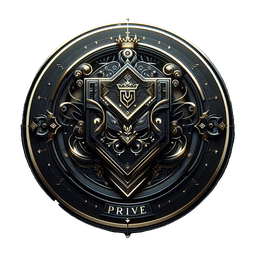
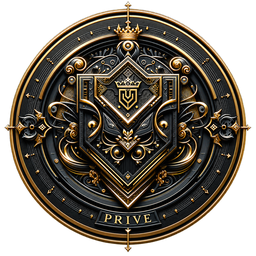
Rebuild emblem assets and unify homepage card system
Emblem:
- images/emblem-512.webp was a 2.5 MB PNG carrying a .webp extension.
  Re-encoded the new artwork as a real 512x512 WebP (100 KB), so the
  eager fetchpriority=high hero image on every page is 25x lighter.
- Restored images/Emblem.png from the same new artwork. It was deleted
  from the working tree while ~100 og:image, JSON-LD logo and Gmail
  mailer references still pointed at it. Kept as PNG because Outlook
  and WhatsApp do not render WebP.
- Dashboard maintenance lander now defaults to images/emblem-512.webp,
  and the dashboard's own chrome emblem is on the new artwork.

Homepage cards, matched to the recruitment page card language:
- One inset now drives card padding and the panel head, so headings and
  card copy share a left edge.
- Cards get recruitment's 260px height, gradient fill and inset-ring
  hover; services join the same hairline grid.
- Dropped the 270px/420px copy caps that made cards feel confining.
- Card content is top-aligned after a fixed eyebrow gap, so titles share
  a baseline regardless of copy length.
- Phones size cards to their copy instead of leaving a tall empty tail.

Mobile fixes:
- Wallpaper download/preview icons were gold-on-gold and invisible; the
  broad `main a` content-link rule now skips icon buttons.
- Contact council copy button stays beside "Open Torn" instead of
  stretching to a full-width icon-only bar under 520px.
- API launcher, back-to-top and recruitment banner outranked the nav
[…]

diff --git a/assets/priority-pages.css b/assets/priority-pages.css
@@ -608,3 +608,267 @@ body.faq-page .faq-closing {
     transition: none;
   }
 }
+
+/* ============================================================
+   Homepage cards — aligned to the recruitment card language
+   The home grids previously used shallower cards with capped
+   copy widths, which read as cramped next to recruitment.html.
+   These rules load last so they settle the shared card shell:
+   one inset, one fill, one hover, copy that fills the card.
+   ============================================================ */
+
+body.home-page {
+  /* One inset drives card padding AND the panel head, so headings
+     and card copy share a left edge. Matches .recruit-benefit-card. */
+  --home-card-inset: clamp(1.5rem, 2.8vw, 1.95rem);
+  --home-card-min: 260px;
+  --home-card-fill:
+    linear-gradient(145deg, rgba(255, 255, 255, 0.035), rgba(255, 255, 255, 0.008)),
+    rgba(12, 14, 17, 0.92);
+  --home-card-fill-hover:
+    linear-gradient(145deg, rgba(var(--accent-rgb), 0.095), rgba(255, 255, 255, 0.012)),
+    rgba(13, 15, 18, 0.94);
+}
+
+body.home-page .home-panel > .home-panel-head {
+  padding-inline: var(--home-card-inset);
+}
+
+/* Shared card shell ------------------------------------------- */
+body.home-page :is(
+  .tenet-grid li,
+  .legacy-timeline li,
+  .service-card,
+  .benefit-grid li,
+  .snapshot-card
+) {
+  position: relative;
+  min-height: var(--home-card-min);
+  display: flex;
+  flex-direction: column;
+  align-items: stretch;
+  justify-content: flex-start;
+  gap: 0;
+  padding-block: var(--home-card-inset);
+  background: var(--home-card-fill);
+  transition:
+    background 0.24s ease,
+    box-shadow 0.24s ease,
+    border-color 0.24s ease;
+}
+
+body.home-page :is(
+  .tenet-grid li,
+  .legacy-timeline li,
+  .service-card,
+  .benefit-grid li,
+  .snapshot-card
+):is(:hover, :focus-within) {
+  z-index: 1;
+  transform: none;
+  background: var(--home-card-fill-hover);
+  box-shadow: inset 0 0 0 1px rgba(var(--accent-rgb), 0.25) !important;
+}
+
+/* Copy fills the card instead of being capped short ------------ */
+body.home-page :is(
+  .tenet-grid p,
+  .legacy-timeline p,
+  .service-card p,
+  .benefit-grid small,
+  .snapshot-card span
+) {
+  max-width: none;
+  margin-top: 0.55rem;
+  color: var(--home-muted);
+  font-size: 0.84rem;
+  line-height: 1.72;
+}
+
+/* Card titles ------------------------------------------------- */
+body.home-page :is(
+  .tenet-grid strong,
+  .legacy-timeline h3,
+  .service-card h3,
+  .benefit-grid strong,
+  .snapshot-card strong
+) {
+  display: block;
+  margin: 0;
+  color: var(--text-1);
+  font-family: "Poppins", Arial, Helvetica, sans-serif;
+  font-size: 0.98rem;
+  font-weight: 600;
+  line-height: 1.4;
+}
+
+/* Top row: the eyebrow/medallion sits away from the copy ------- */
+body.home-page .tenet-grid li::before,
+body.home-page .legacy-timeline time,
+body.home-page .service-card > .service-icon,
+body.home-page .benefit-grid > li > .benefit-icon,
+body.home-page .snapshot-card > i {
+  flex: 0 0 auto;
+  margin: 0 0 2.35rem;
+}
+
+/* Circular medallions, as on .recruit-benefit-card__top -------- */
+body.home-page :is(.service-icon, .benefit-icon),
+body.home-page .snapshot-card > i {
+  display: grid;
+  place-items: center;
+  width: 2.55rem;
+  height: 2.55rem;
+  border: 1px solid rgba(var(--accent-rgb), 0.3);
+  border-radius: 50%;
+  background: rgba(0, 0, 0, 0.14);
+  color: var(--accent-light);
+  font-size: 0.9rem;
+}
+
+/* Benefits and snapshots stack like the recruitment cards ------ */
+body.home-page .benefit-grid > li,
+body.home-page .snapshot-card {
+  display: flex;
+  align-items: stretch;
+}
+
+body.home-page .benefit-grid > li > div,
+body.home-page .snapshot-card > div,
+body.home-page .service-card > div {
+  min-width: 0;
+}
+
+body.home-page .tenet-grid li::before {
+  color: rgba(var(--accent-rgb), 0.52);
+  font-family: "Poppins", Arial, Helvetica, sans-serif;
+  font-size: 0.66rem;
+  font-weight: 700;
+  letter-spacing: 0.14em;
+}
+
+body.home-page .legacy-timeline time {
+  color: rgba(var(--accent-rgb), 0.52);
+  font-size: 0.66rem;
+  font-weight: 700;
+  letter-spacing: 0.14em;
+}
+
+/* The callout gets matching breathing room -------------------- */
+body.home-page .home-callout {
+  gap: 1.15rem;
+  padding-block: 1.35rem;
+}
+
+/* Services: same hairline grid + card shell as the others ------ */
+body.home-page .service-grid {
+  grid-template-columns: repeat(2, minmax(0, 1fr));
+  gap: 1px;
+  overflow: hidden;
+  border: 1px solid var(--home-line);
+  border-radius: 4px;
+  background: var(--home-line);
+}
+
+body.home-page .service-card,
+body.home-page .service-card:nth-child(n) {
+  grid-column: auto;
+  min-height: var(--home-card-min);
+  justify-content: flex-start;
+  gap: 0;
+  padding: var(--home-card-inset);
+  border: 0;
+  border-radius: 0;
+  background: var(--home-card-fill);
+}
+
+body.home-page .service-card:hover,
+body.home-page .service-card:focus-within {
+  transform: none;
+  border-color: transparent !important;
+  background: var(--home-card-fill-hover);
+  box-shadow: inset 0 0 0 1px rgba(var(--accent-rgb), 0.25) !important;
+}
+
+body.home-page .service-card p {
+  margin: 0.55rem 0 0;
+}
+
+/* Tablet ------------------------------------------------------ */
+@media (max-width: 820px) {
+  body.home-page {
+    --home-card-min: 240px;
+  }
+}
+
+/* Mobile ------------------------------------------------------ */
+@media (max-width: 680px) {
+  body.home-page {
+    --home-card-inset: 1.45rem;
+    /* Phones size cards to their copy: the generous inset and the
+       eyebrow gap carry the airiness, without a tall empty tail
+       that would double the amount of scrolling. */
+    --home-card-min: 0px;
+  }
+
+  body.home-page .home-panel > .home-panel-head {
+    padding-inline: var(--home-card-inset);
+  }
+
+  body.home-page :is(
+    .tenet-grid li,
+    .legacy-timeline li,
+    .service-card,
+    .benefit-grid li,
+    .snapshot-card
+  ) {
+    padding-block: var(--home-card-inset);
+  }
+
+  body.home-page .tenet-grid li::before,
+  body.home-page .legacy-timeline time,
+  body.home-page .service-card > .service-icon,
+  body.home-page .benefit-grid > li > .benefit-icon,
+  body.home-page .snapshot-card > i {
+    margin-bottom: 1.6rem;
+  }
+
+  body.home-page .service-grid {
+    grid-template-columns: 1fr;
+  }
+
+  body.home-page .service-card,
+  body.home-page .service-card:nth-child(n) {
+    min-height: var(--home-card-min);
+    gap: 0;
+    padding: var(--home-card-inset);
+  }
+
+  body.home-page .benefit-grid li {
+    min-height: var(--home-card-min);
+  }
+
+  /* Touch devices get no hover ring, just the resting fill */
+  body.home-page :is(
+    .tenet-grid li,
+    .legacy-timeline li,
+    .service-card,
+    .benefit-grid li,
+    .snapshot-card
+  ):hover {
+    background: var(--home-card-fill);
+    box-shadow: none !important;
+  }
+}
+
+@media (prefers-reduced-motion: reduce) {
+  body.home-page :is(
+    .tenet-grid li,
+    .legacy-timeline li,
+    .service-card,
+    .benefit-grid li,
+    .snapshot-card
+  ) {
+    transition: none;
+  }
+}

diff --git a/PC-DashboardApp/assets/js/app.js b/PC-DashboardApp/assets/js/app.js
@@ -64,7 +64,7 @@
     els.repoName.value = settings.repo || "";
     els.branchName.value = settings.branch || "main";
     els.liveSiteUrl.value = settings.liveSiteUrl || "";
-    els.brandAssetPath.value = settings.assetPath || "images/Emblem.png";
+    els.brandAssetPath.value = settings.assetPath || "images/emblem-512.webp";
     localStorage.removeItem(TOKEN_KEY);
     els.githubToken.value = sessionStorage.getItem(TOKEN_KEY) || "";
     els.rememberToken.checked = Boolean(sessionStorage.getItem(TOKEN_KEY));
@@ -96,7 +96,7 @@
       branch: els.branchName.value.trim() || "main",
       token: els.githubToken.value.trim(),
       liveSiteUrl: els.liveSiteUrl.value.trim(),
-      assetPath: els.brandAssetPath.value.trim() || "images/Emblem.png",
+      assetPath: els.brandAssetPath.value.trim() || "images/emblem-512.webp",
     };
   }
 
@@ -113,7 +113,7 @@
       title: els.maintenanceTitle.value.trim() || "System Maintenance",
       message: els.maintenanceMessage.value.trim(),
       eta: els.maintenanceEta.value.trim() || "Back soon",
-      assetPath: els.brandAssetPath.value.trim() || "images/Emblem.png",
+      assetPath: els.brandAssetPath.value.trim() || "images/emblem-512.webp",
       contactLabel: els.contactLabel.value.trim() || "Join Discord",
       contactUrl: els.contactUrl.value.trim(),
     };

diff --git a/assets/api-widget.css b/assets/api-widget.css
@@ -1270,3 +1270,20 @@ body.has-recruitment-banner .api-toast {
     transition: none;
   }
 }
+
+/* ============================================================
+   Full-screen mobile menu owns the viewport
+   The launcher (z 1250) and recruitment banner (z 1100) both
+   outrank the nav panel (z 999), so they used to float on top
+   of the open menu. Nothing here is actionable while the menu
+   is up, so take them out of the layer entirely.
+   ============================================================ */
+body.menu-open > .api-launcher,
+body.menu-open .recruitment-banner,
+body.menu-open #backTop,
+body.menu-open .api-toast {
+  opacity: 0;
+  visibility: hidden;
+  pointer-events: none;
+  transition: opacity 0.18s ease, visibility 0s linear 0.18s;
+}

diff --git a/contact.html b/contact.html
@@ -527,8 +527,10 @@
     @media(max-width:520px){
       .contact-section{padding-top:2rem}
       .contact-grid{grid-template-columns:1fr}
-      .profile-actions{grid-template-columns:1fr}
-      .copy-xid{width:100%}
+      /* Keep the copy button beside "Open Torn": stacked full-width it
+         reads as a mystery bar, since it is icon-only by design. */
+      .profile-actions{grid-template-columns:minmax(0,1fr) auto}
+      .copy-xid{width:auto;min-width:2.9rem}
       .application-grid{grid-template-columns:1fr}
       .application-footer{display:grid}
       .application-actions{

diff --git a/assets/mobile.css b/assets/mobile.css
@@ -393,6 +393,13 @@
     text-align: center;
   }
 
+  /* Back-to-top, the API launcher and the recruitment banner stack up
+     the last ~190px of the viewport. Extend the footer's own dark base
+     past that stack so the closing line never sits under a button. */
+  body.has-api-widget .footer-bottom {
+    padding-bottom: calc(8rem + env(safe-area-inset-bottom));
+  }
+
   .recruitment-banner {
     right: max(var(--mobile-gutter), env(safe-area-inset-right));
     bottom: max(0.75rem, env(safe-area-inset-bottom));

diff --git a/assets/script.js b/assets/script.js
@@ -346,7 +346,7 @@ document.addEventListener("DOMContentLoaded", () => {
     if (!widgetStyles) {
       widgetStyles = document.createElement("link");
       widgetStyles.rel = "stylesheet";
-      widgetStyles.href = siteLink("assets/api-widget.css?v=20260822-7");
+      widgetStyles.href = siteLink("assets/api-widget.css?v=20260822-9");
       widgetStyles.setAttribute("data-api-widget-styles", "");
       document.head.appendChild(widgetStyles);
     }

diff --git a/index.html b/index.html
@@ -708,7 +708,7 @@
   <link rel="stylesheet" href="assets/editorial.css">
   <link rel="stylesheet" href="assets/home.css">
   <link rel="stylesheet" href="assets/mobile.css">
-  <link rel="stylesheet" href="assets/priority-pages.css?v=20260822-4">
+  <link rel="stylesheet" href="assets/priority-pages.css?v=20260822-8">
 </head>
 
 <body class="home-page">

diff --git a/assets/style.css b/assets/style.css
@@ -2011,7 +2011,7 @@ section.rules-block h2.section-title .num{
 
 
 /* ===== 10.  Content links  (updated) ===== */
-main a:not(.btn):not(.nav-links a) {
+main a:not(.btn):not(.nav-links a, .overlay-buttons a, .carousel-download a) {
   color: var(--accent);
   text-decoration: underline;
   text-decoration-color: rgba(var(--accent-rgb), 0.45);

diff --git a/PC-DashboardApp/index.html b/PC-DashboardApp/index.html
@@ -182,7 +182,7 @@
             </label>
             <label class="field">
               <span>Brand asset path</span>
-              <input id="brandAssetPath" value="images/Emblem.png" spellcheck="false">
+              <input id="brandAssetPath" value="images/emblem-512.webp" spellcheck="false">
             </label>
           </div>
 

diff --git a/faq.html b/faq.html
@@ -503,7 +503,7 @@
     </style>
   <link rel="stylesheet" href="assets/editorial.css">
   <link rel="stylesheet" href="assets/mobile.css">
-  <link rel="stylesheet" href="assets/priority-pages.css?v=20260822-4">
+  <link rel="stylesheet" href="assets/priority-pages.css?v=20260822-8">
 </head>
   <body class="faq-page">
     <!-- NAVBAR -->

diff --git a/PC-DashboardApp/assets/js/maintenance-template.js b/PC-DashboardApp/assets/js/maintenance-template.js
@@ -26,7 +26,7 @@
   function safeAssetPath(value) {
     const path = String(value || "").trim();
     if (/^(?:\.\.?\/|\/)?[a-z0-9_./-]+$/i.test(path)) return path;
-    return safeHttpUrl(path) || "images/Emblem.png";
+    return safeHttpUrl(path) || "images/emblem-512.webp";
   }
 
   function buildMaintenanceHtml(options) {
